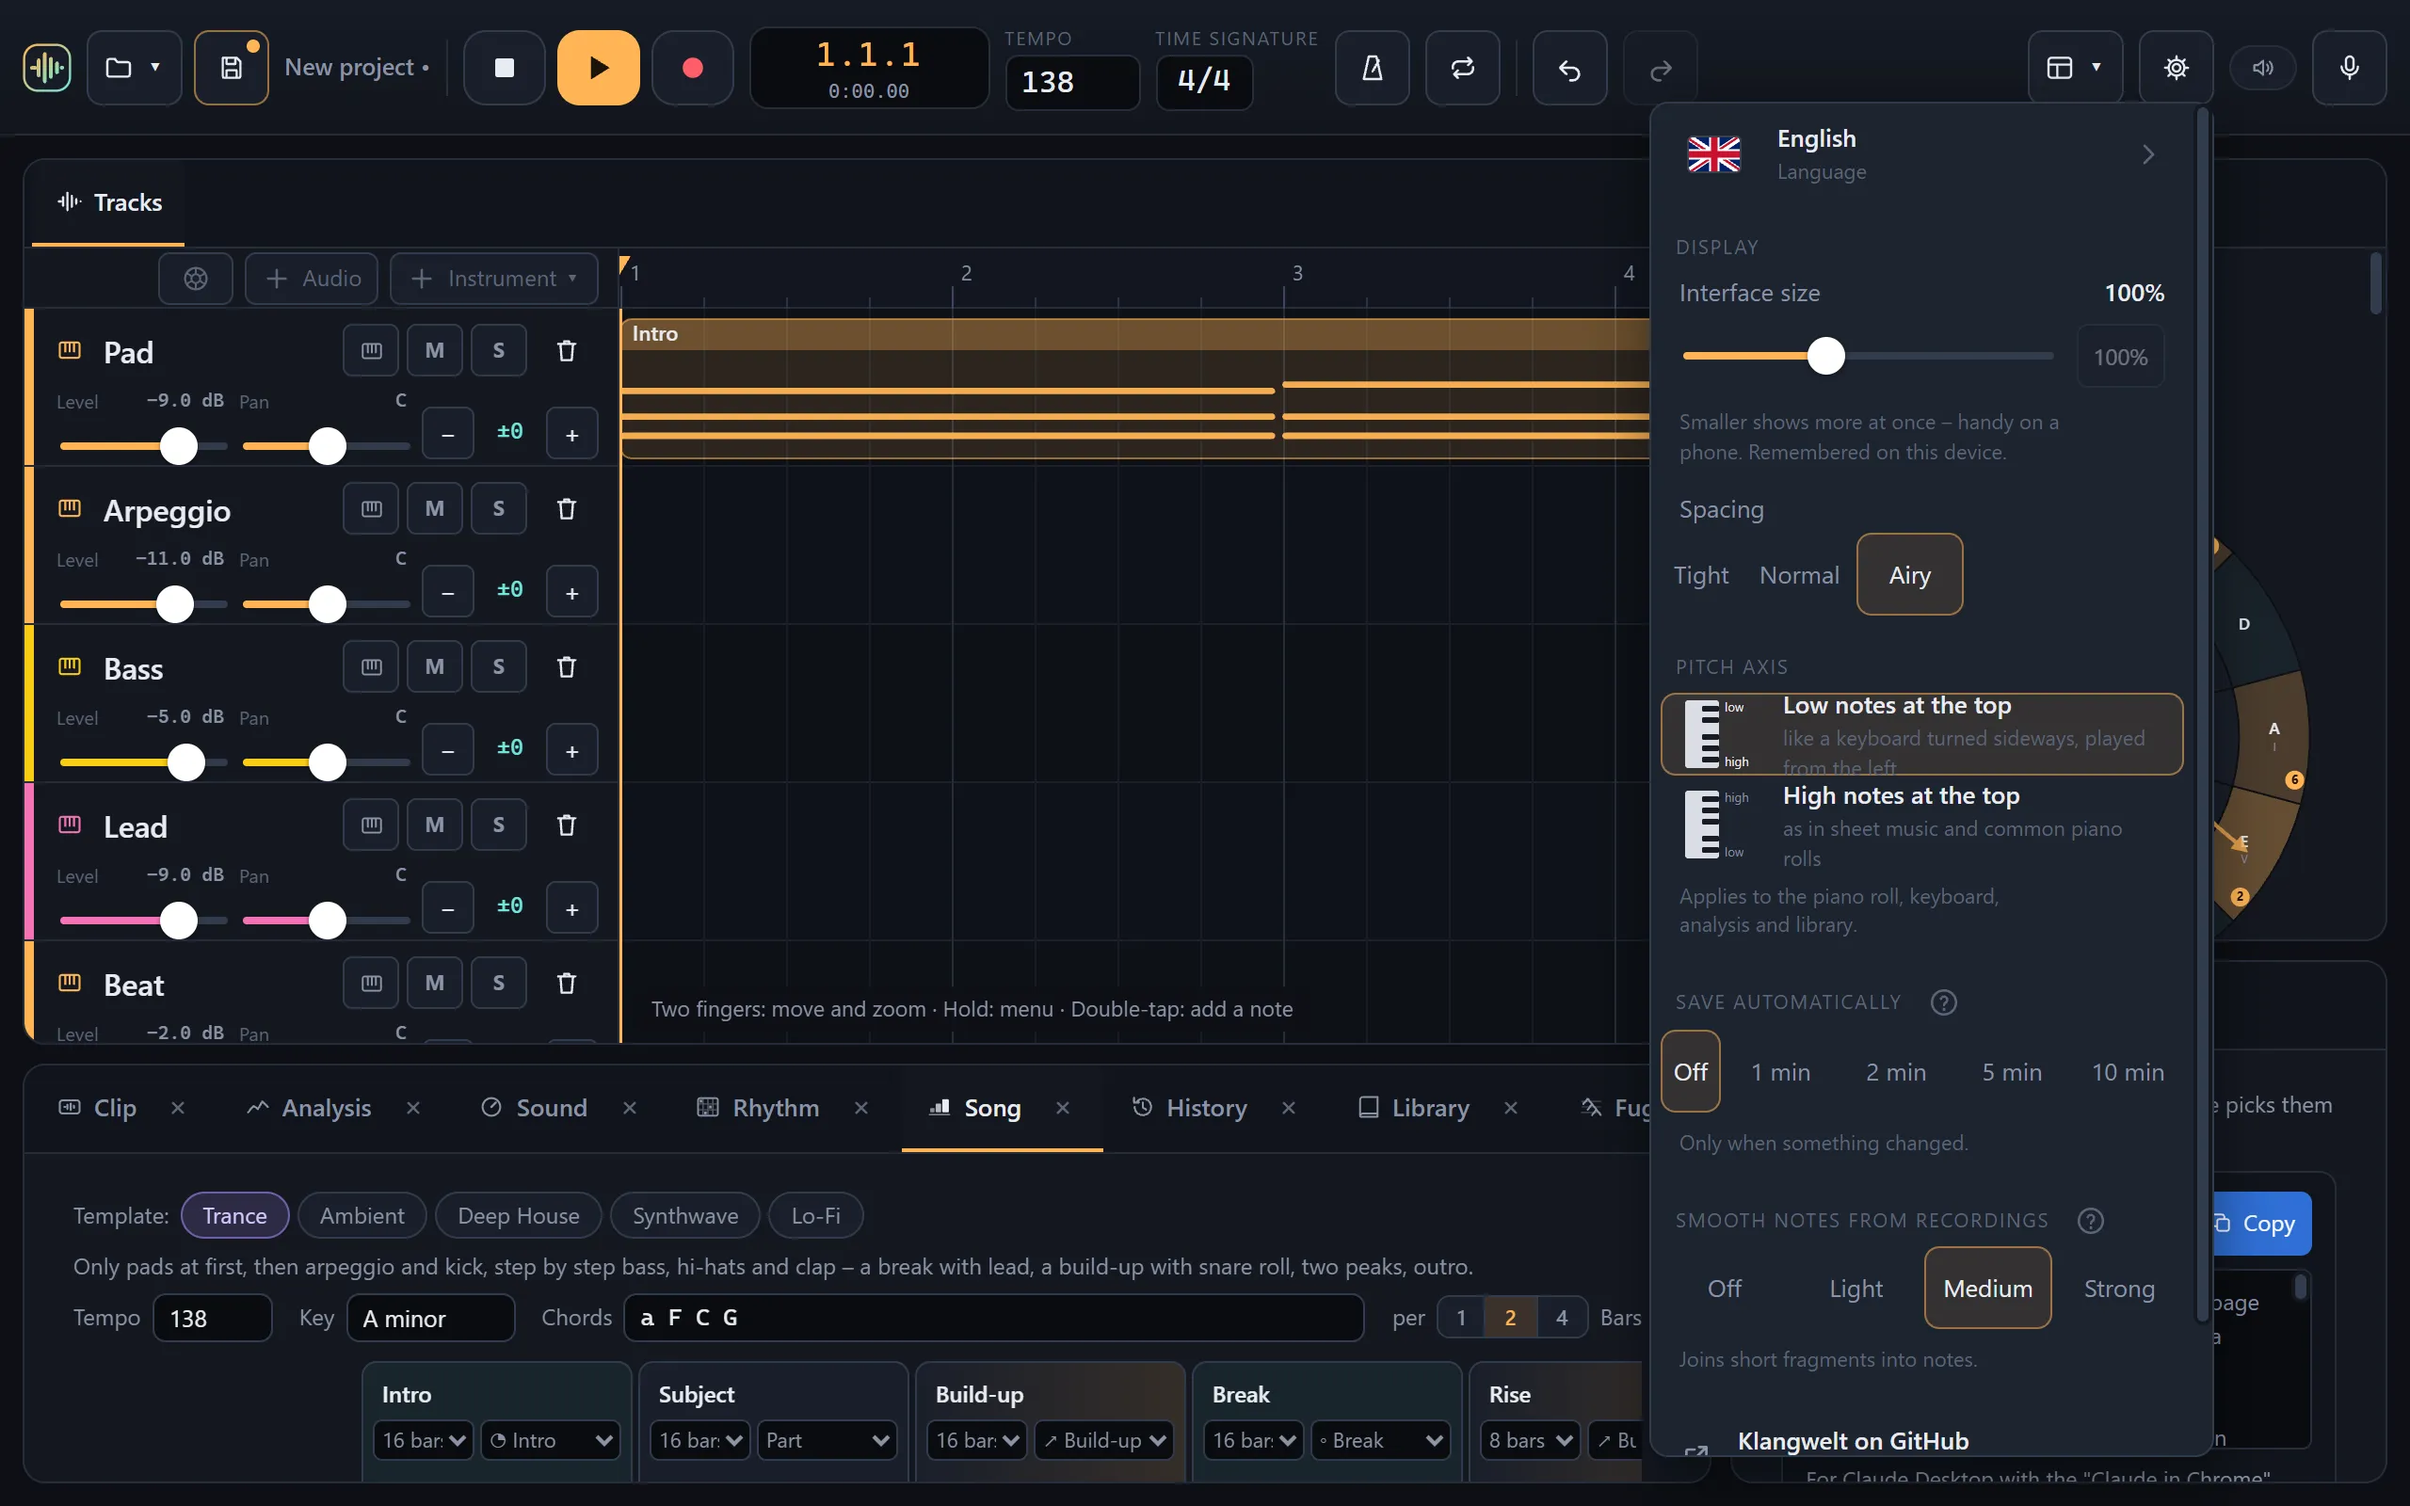
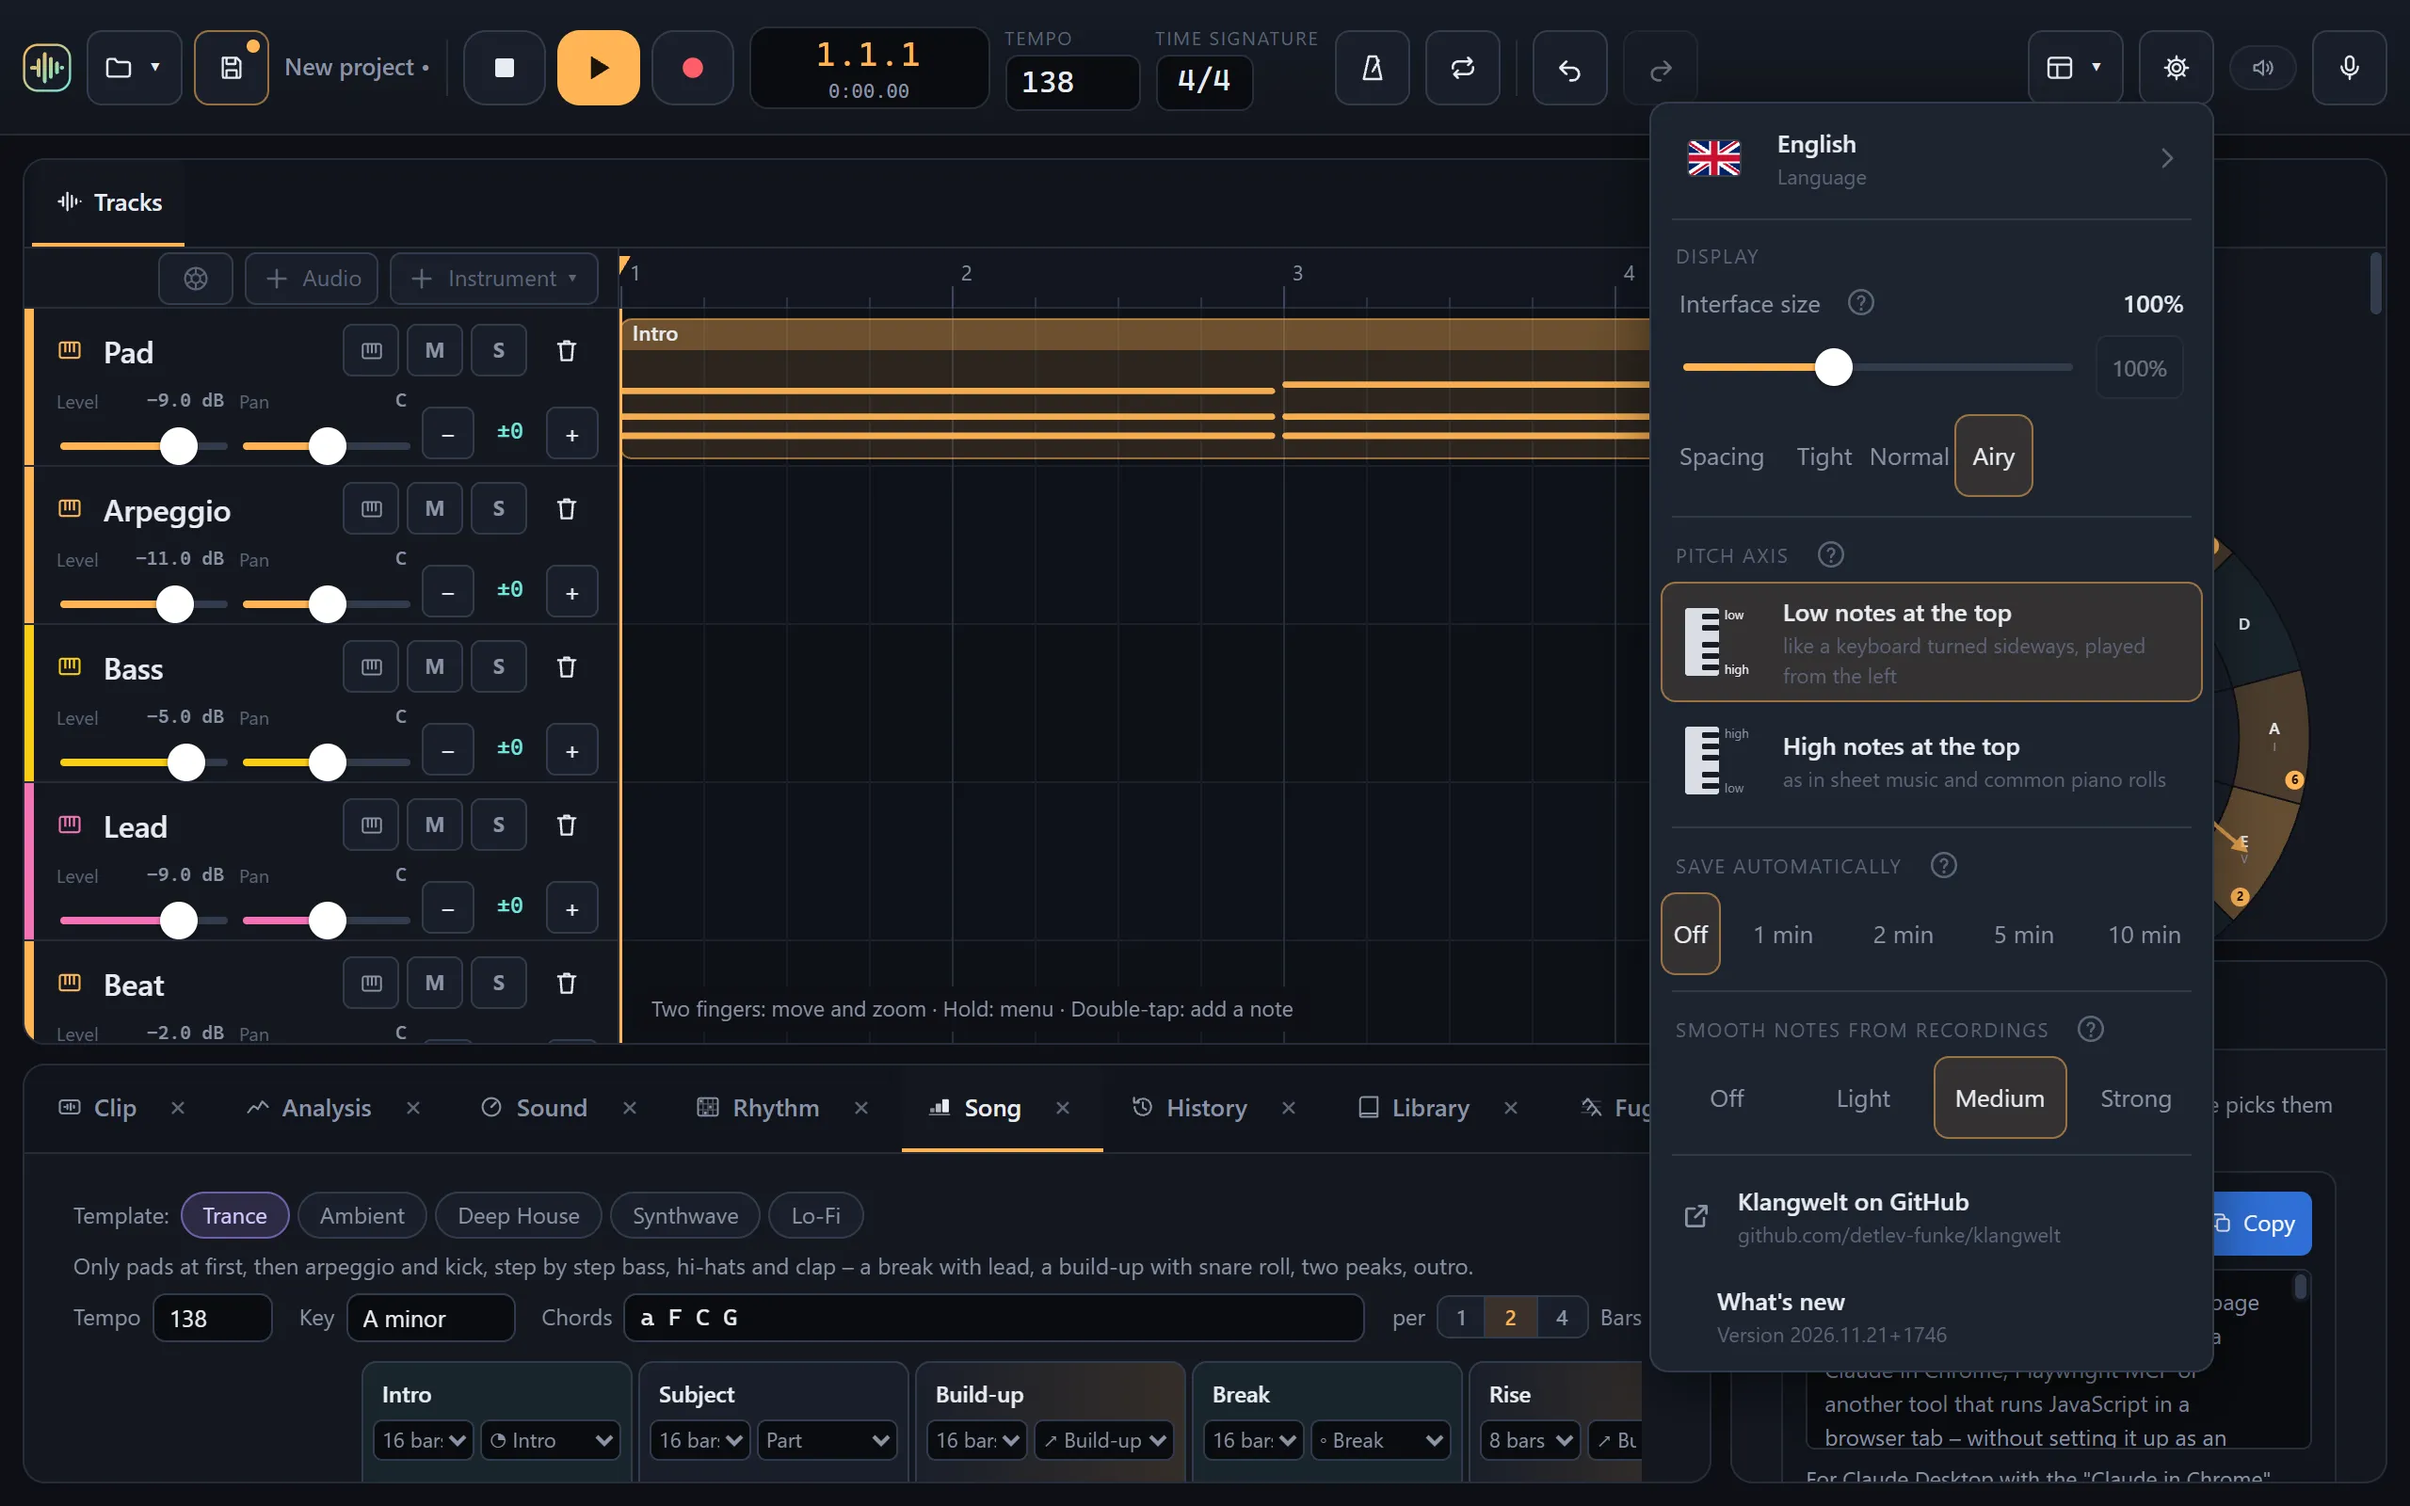
Gear menu without description lines; "Spacing" and its options on one line
No more hint lines in the gear menu: the explanations of interface size,
pitch axis, autosave and smoothing are tooltips and unfold behind the ⓘ next to
the setting's name (also in a desktop browser, why the size slider is off).
"Spacing" sits on one line with Tight / Normal / Airy. The two short hints from
the previous commit are gone from the dictionaries again.

Changed region(s): [[0.6875, 0.0625, 0.9375, 0.875], [0.6875, 0.75, 0.9375, 0.9688], [0.6875, 0.0938, 0.7812, 0.125]]

diff --git a/ui/src/components/settings.ts b/ui/src/components/settings.ts
@@ -116,9 +116,9 @@ function languageOptions(close: () => void): HTMLElement {
   );
 }
 
-/** A setting with a short hint; the full explanation is its tooltip and, behind an ⓘ button, a line to
- *  unfold – tooltips never show for a finger. `help`: its entry in the help window (F1, help.ts). */
-function explained(help: string, title: string, options: HTMLElement, short: string, full: string): HTMLElement[] {
+/** An ⓘ button and the explanation it unfolds below a setting: the text is also the button's
+ *  tooltip, but tooltips never show for a finger. `help`: the help window's entry (F1, help.ts). */
+function infoToggle(help: string, full: string): { info: HTMLButtonElement; more: HTMLElement } {
   const more = h("div", { class: "menu-hint menu-more", hidden: true, "data-help": help }, full);
   const info: HTMLButtonElement = h(
     "button",
@@ -134,14 +134,19 @@ function explained(help: string, title: string, options: HTMLElement, short: str
     },
     icon("help"),
   );
-  options.dataset.help = help;
-  options.title = full;
-  return [
-    h("div", { class: "menu-title with-info", "data-help": help }, title, info),
-    options,
-    h("div", { class: "menu-hint", title: full, "data-help": help }, short),
-    more,
-  ];
+  return { info, more };
+}
+
+/** A setting without a visible description: its title with an ⓘ, the options (the explanation as their
+ *  tooltip) and the explanation to unfold. */
+function explained(help: string, title: string, options: HTMLElement | HTMLElement[], full: string): HTMLElement[] {
+  const { info, more } = infoToggle(help, full);
+  const list = [options].flat();
+  for (const o of list) {
+    o.dataset.help = help;
+    if (!o.title) o.title = full;
+  }
+  return [h("div", { class: "menu-title with-info", "data-help": help }, title, info), ...list, more];
 }
 
 /** "Language" is always shown in English, too – whoever ended up in a foreign language finds the way back. */
@@ -172,7 +177,7 @@ function displayOptions(): HTMLElement[] {
     "aria-label": t("Interface size"),
   });
   const reset = h("button", { class: "btn small scale-reset", title: t("Back to 100%"), onclick: () => void apply(1) }, percent(1));
-  const hint = h("div", { class: "menu-hint scale-hint" });
+  const { info, more } = infoToggle("einstellungen-groesse", "");
   const show = () => {
     const s = uiScale.peek();
     const works = backend.uiScaleWorks();
@@ -181,9 +186,13 @@ function displayOptions(): HTMLElement[] {
     setRange(slider, Math.round(s * 100));
     value.textContent = percent(s);
     slider.setAttribute("aria-valuetext", percent(s));
-    hint.textContent = works
+    // the explanation (behind ⓘ): what the size does – or, in a desktop browser, which zoom does it there
+    const about = works
       ? t("Smaller shows more at once – handy on a phone. Remembered on this device.")
       : t("In this browser its own zoom does that: Ctrl + and Ctrl − (on a Mac ⌘ + and ⌘ −).");
+    info.title = about;
+    more.textContent = about;
+    slider.title = about;
   };
   const apply = async (s: number) => {
     try {
@@ -233,11 +242,10 @@ function displayOptions(): HTMLElement[] {
   );
   return [
     h("div", { class: "menu-title" }, t("Display")),
-    h("div", { class: "scale-row" }, h("span", { class: "scale-label" }, t("Interface size")), value),
+    h("div", { class: "scale-row" }, h("span", { class: "scale-label with-info" }, t("Interface size"), info), value),
     h("div", { class: "scale-row" }, slider, reset),
-    hint,
-    h("div", { class: "scale-label density-label" }, t("Spacing")),
-    densityGrid,
+    more,
+    h("div", { class: "scale-row density-row" }, h("span", { class: "scale-label" }, t("Spacing")), densityGrid),
   ];
 }
 
@@ -346,14 +354,19 @@ export function settingsMenu(): HTMLElement {
         h("div", { class: "menu-sep" }),
         ...displayOptions(),
         h("div", { class: "menu-sep" }),
-        h("div", { class: "menu-title" }, t("Pitch axis")),
-        option(false, t("Low notes at the top"), t("like a keyboard turned sideways, played from the left")),
-        option(true, t("High notes at the top"), t("as in sheet music and common piano rolls")),
-        h("div", { class: "menu-hint" }, t("Applies to the piano roll, keyboard, analysis and library.")),
+        ...explained(
+          "einstellungen-tonachse",
+          t("Pitch axis"),
+          [
+            option(false, t("Low notes at the top"), t("like a keyboard turned sideways, played from the left")),
+            option(true, t("High notes at the top"), t("as in sheet music and common piano rolls")),
+          ],
+          t("Applies to the piano roll, keyboard, analysis and library."),
+        ),
         h("div", { class: "menu-sep" }),
-        ...explained("einstellungen-autosave", t("Save automatically"), autosaveOptions(close), t("Only when something changed."), AUTOSAVE_HELP()),
+        ...explained("einstellungen-autosave", t("Save automatically"), autosaveOptions(close), AUTOSAVE_HELP()),
         h("div", { class: "menu-sep" }),
-        ...explained("einstellungen-glaetten", t("Smooth notes from recordings"), smoothOptions(close), t("Joins short fragments into notes."), SMOOTH_HELP()),
+        ...explained("einstellungen-glaetten", t("Smooth notes from recordings"), smoothOptions(close), SMOOTH_HELP()),
         h("div", { class: "menu-sep" }),
         projectLink(close),
         whatsNewMenuItem(close),

diff --git a/ui/static/styles.css b/ui/static/styles.css
@@ -866,7 +866,11 @@ body.dk-dragging, body.dk-dragging * { cursor: grabbing !important; user-select:
 .scale-slider { flex: 1; min-width: 0; }
 .scale-slider:disabled { opacity: .4; cursor: default; }
 .scale-reset { flex: none; }
-.density-label { padding: 4px 10px 0; }
+.scale-label.with-info { display: inline-flex; align-items: center; gap: 4px; }
+/* "Spacing" and its three options in one row: the options share the room next to the label */
+.scale-row.density-row { padding-right: 0; }
+.density-row .density-grid { flex: 1 1 0; min-width: 0; }
+.density-row .density-option { min-width: 0; overflow: hidden; text-overflow: ellipsis; }
 .density-grid { grid-template-columns: repeat(3, 1fr); }
 a.set-option { color: var(--muted); text-decoration: none; }
 .github-icon { display: inline-flex; width: 18px; justify-content: center; color: var(--muted); flex: none; }

diff --git a/ui/src/i18n/de.ts b/ui/src/i18n/de.ts
@@ -2892,8 +2892,6 @@ const dict: Dict = {
   "Display": "Ansicht",
   "The page couldn't be opened: {error}": "Die Seite ließ sich nicht öffnen: {error}",
   "Klangwelt on GitHub": "Klangwelt auf GitHub",
-  "Only when something changed.": "Nur wenn sich etwas geändert hat.",
-  "Joins short fragments into notes.": "Fügt kurze Bruchstücke zu Noten zusammen.",
   "More about this": "Mehr dazu",
 
   // klangwelt-desktop/app/src/lib.rs – opening the project page

diff --git a/ui/src/i18n/it.ts b/ui/src/i18n/it.ts
@@ -3025,8 +3025,6 @@ const dict: Dict = {
   "Display": "Visualizzazione",
   "The page couldn't be opened: {error}": "Impossibile aprire la pagina: {error}",
   "Klangwelt on GitHub": "Klangwelt su GitHub",
-  "Only when something changed.": "Solo se qualcosa è cambiato.",
-  "Joins short fragments into notes.": "Unisce i frammenti brevi in note.",
   "More about this": "Maggiori informazioni",
 
   // klangwelt-desktop/app/src/lib.rs – opening the project page

diff --git a/ui/src/i18n/nl.ts b/ui/src/i18n/nl.ts
@@ -3025,8 +3025,6 @@ const dict: Dict = {
   "Display": "Weergave",
   "The page couldn't be opened: {error}": "De pagina kon niet worden geopend: {error}",
   "Klangwelt on GitHub": "Klangwelt op GitHub",
-  "Only when something changed.": "Alleen als er iets is veranderd.",
-  "Joins short fragments into notes.": "Voegt korte fragmenten samen tot noten.",
   "More about this": "Meer hierover",
 
   // klangwelt-desktop/app/src/lib.rs – opening the project page

diff --git a/ui/src/i18n/fr.ts b/ui/src/i18n/fr.ts
@@ -3025,8 +3025,6 @@ const dict: Dict = {
   "Display": "Affichage",
   "The page couldn't be opened: {error}": "Impossible d'ouvrir la page : {error}",
   "Klangwelt on GitHub": "Klangwelt sur GitHub",
-  "Only when something changed.": "Seulement en cas de modification.",
-  "Joins short fragments into notes.": "Réunit les fragments courts en notes.",
   "More about this": "En savoir plus",
 
   // klangwelt-desktop/app/src/lib.rs – opening the project page

diff --git a/ui/src/i18n/es.ts b/ui/src/i18n/es.ts
@@ -3025,8 +3025,6 @@ const dict: Dict = {
   "Display": "Visualización",
   "The page couldn't be opened: {error}": "No se pudo abrir la página: {error}",
   "Klangwelt on GitHub": "Klangwelt en GitHub",
-  "Only when something changed.": "Solo si algo ha cambiado.",
-  "Joins short fragments into notes.": "Une los fragmentos cortos en notas.",
   "More about this": "Más información",
 
   // klangwelt-desktop/app/src/lib.rs – opening the project page

diff --git a/ui/src/i18n/pl.ts b/ui/src/i18n/pl.ts
@@ -3025,8 +3025,6 @@ const dict: Dict = {
   "Display": "Wygląd",
   "The page couldn't be opened: {error}": "Nie udało się otworzyć strony: {error}",
   "Klangwelt on GitHub": "Klangwelt na GitHubie",
-  "Only when something changed.": "Tylko gdy coś się zmieniło.",
-  "Joins short fragments into notes.": "Łączy krótkie fragmenty w nuty.",
   "More about this": "Więcej o tym",
 
   // klangwelt-desktop/app/src/lib.rs – opening the project page
